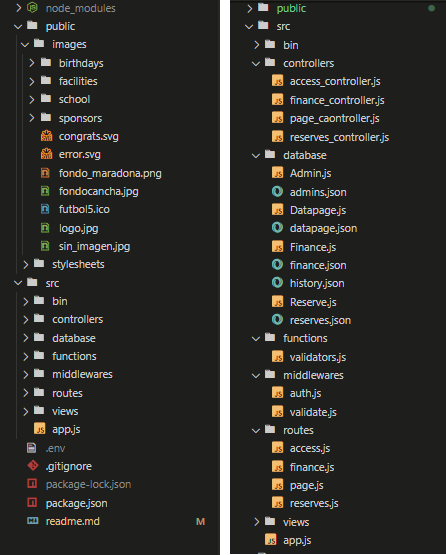
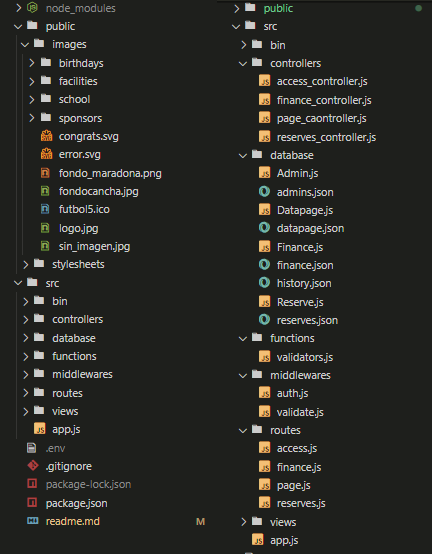
modifico la imagen de estructura de carpetas

Changed region(s): [[0.4213, 0.0, 0.8727, 1.0], [0.0301, 0.0, 0.3912, 0.9513]]

diff --git a/readme.md b/readme.md
@@ -2,7 +2,7 @@
 
 ## Estructura
 
-![Estructura carpetas.](https://api-futbol5.herokuapp.com/images/Estructura_carpetas.png "Estructura carpetas.")
+![Ver la estructura de carpetas.](https://github.com/ramazzucco/Futbol5_api/edit/master/images/Estructura_carpetas.png "Estructura carpetas.")
 
 ---
 
